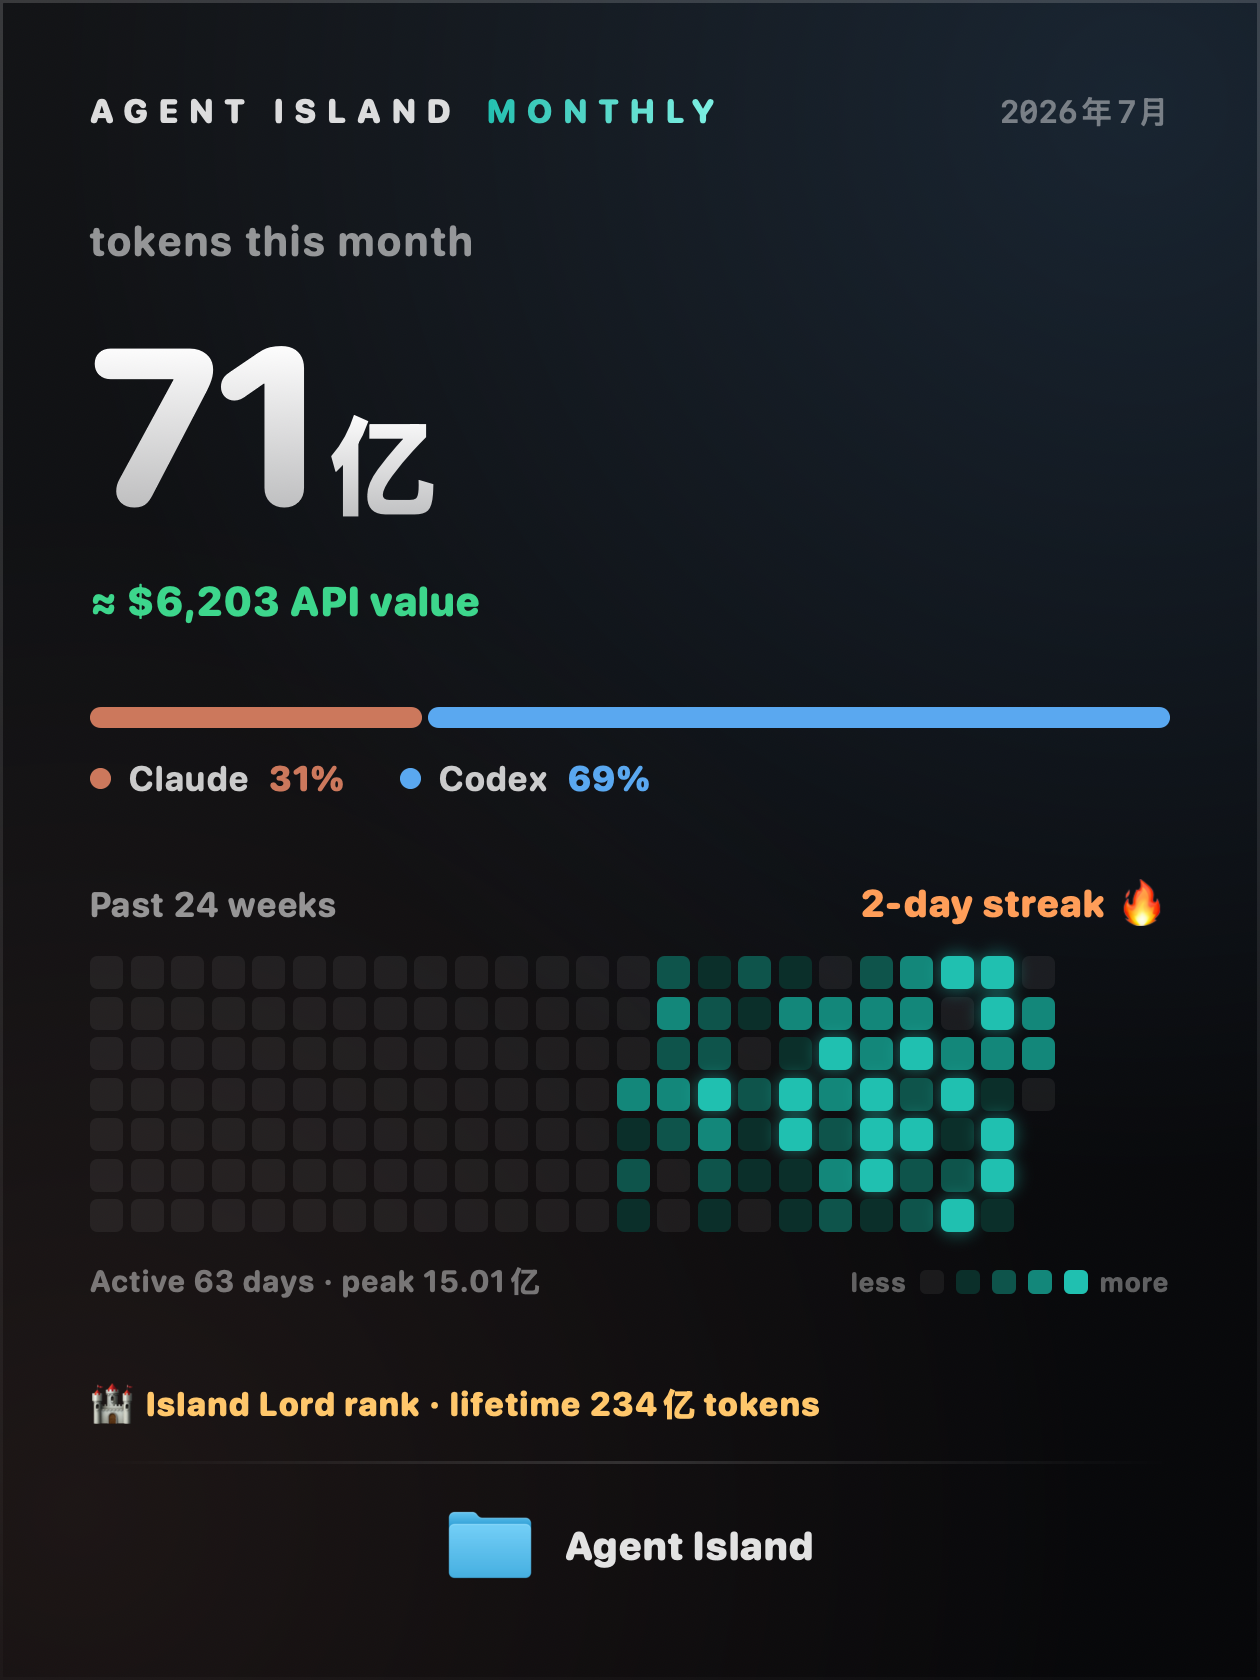
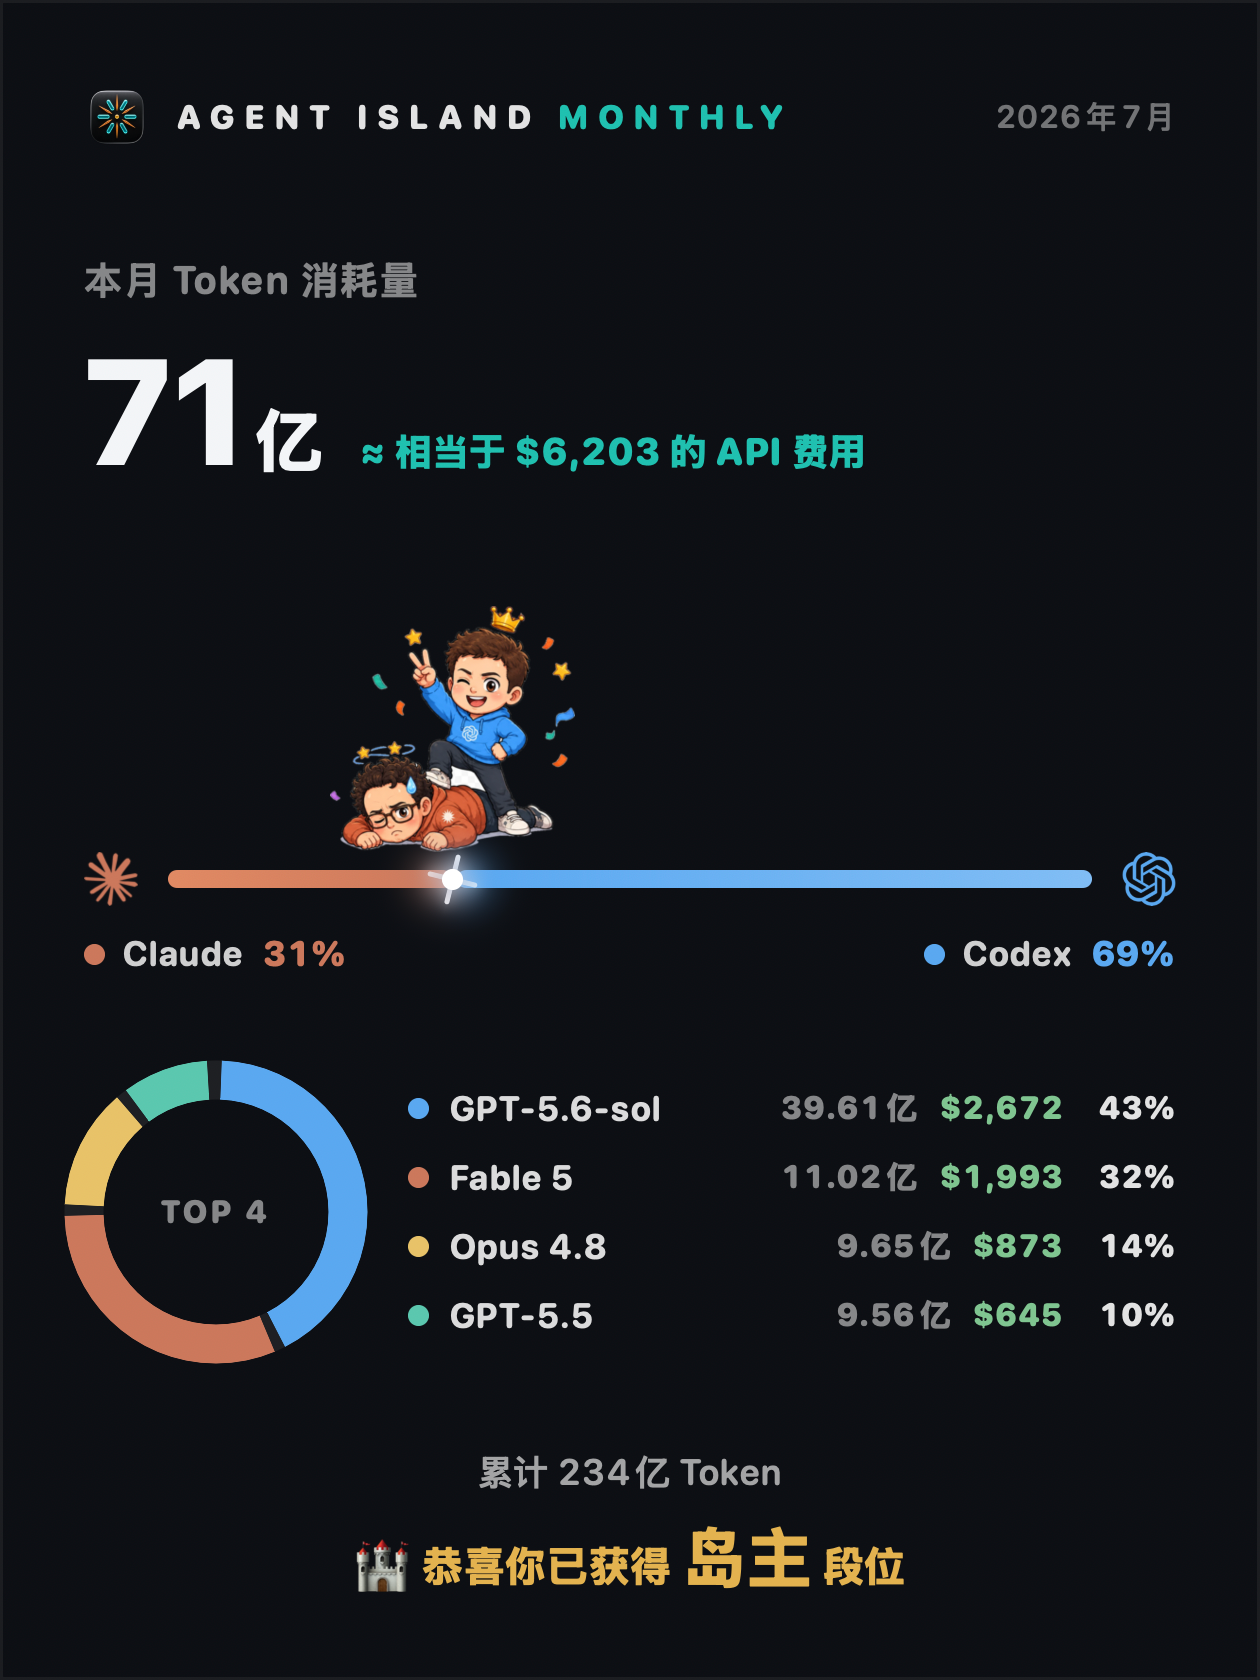
docs: README rides the v3 cards — faction duel imagery, TOP-3/TOP-5 copy, visual modes + glow colors + solo layout under Status monitoring (EN + zh)

diff --git a/README.md b/README.md
@@ -122,6 +122,8 @@ Agent Island mirrors local Claude Code, Claude Desktop, and Codex session activi
 
 <img src="Assets/agent-island-bar-alert.png" alt="Agent Island showing an attention state in the macOS top bar" width="760">
 
+The island's ambient light is yours to tune: **Vivid** (the default) keeps a soft halo and orbit sweep running in your chosen glow color — teal, cobalt, violet, or silver — while **Calm** goes fully dark and saves the amber/red tint for approaching-limit alerts. Machines with a single subscription get a dedicated split layout: the provider's mark on one flank of the island, the live number on the other.
+
 ### It's-your-turn clock
 
 When a background turn finishes, Agent Island can show an alarm window, send a system notification, and play a sound. Multiple completed turns queue instead of replacing one another, and responding clears the corresponding reminder.
@@ -141,12 +143,12 @@ Swipe through local usage and cost views for Claude and Codex. Provider usage da
 
 ### Weekly & monthly report cards
 
-Shareable cards rendered locally: total tokens with an ≈ API value line, the Claude/Codex split, 7-day bars (weekly) or a 24-week activity heatmap with your streak (monthly), a TOP model breakdown, and your island rank. Copying or sharing a card is an explicit user action; Agent Island does not publish it for you.
+Shareable cards rendered locally: total tokens with an ≈ API value line, a Claude-vs-Codex faction duel whose clash sits exactly at your usage split (the leading side wins the crown), 7-day bars with a TOP-3 model donut (weekly) or a TOP-5 donut (monthly), and your island rank as the closing line. Copying or sharing a card is an explicit user action; Agent Island does not publish it for you.
 
 <table>
   <tr>
-    <td align="center"><img src="Assets/report-weekly-en.webp" alt="Weekly report card with demo data: tokens, API value, provider split, model donut, island rank" width="420"></td>
-    <td align="center"><img src="Assets/report-monthly-en.webp" alt="Monthly report card with demo data: 24-week heatmap, streak, island rank" width="420"></td>
+    <td align="center"><img src="Assets/report-weekly-en.webp" alt="Weekly report card with demo data: tokens, API value, faction duel, model donut, island rank" width="420"></td>
+    <td align="center"><img src="Assets/report-monthly-en.webp" alt="Monthly report card with demo data: tokens, faction duel, TOP-5 model donut, island rank" width="420"></td>
   </tr>
 </table>
 

diff --git a/README.zh-CN.md b/README.zh-CN.md
@@ -122,6 +122,8 @@ Agent Island 把本机 Claude Code、Claude Desktop 和 Codex 的会话活动显
 
 <img src="Assets/agent-island-bar-alert.png" alt="macOS 顶部条中的异常注意状态" width="760">
 
+岛的环境光由你决定：**流光**（默认）让光晕与环绕流光以你选的颜色常亮——青、钴蓝、紫、银白；**清爽**则完全熄灯，只保留接近上限时的琥珀/红色警示。单订阅的机器有专属分边布局：岛的一端是所属 logo，另一端是实时数字。
+
 ### 轮到你闹钟
 
 后台一轮任务结束后，Agent Island 可以显示闹钟窗口、发送系统通知并播放提示音。多个已完成任务会排队，而不是相互覆盖；回复对应会话后，相应提醒会消失。
@@ -141,12 +143,12 @@ Agent Island 把本机 Claude Code、Claude Desktop 和 Codex 的会话活动显
 
 ### 周报与月报卡片
 
-在本机渲染的可分享卡片：本期 Token 总量与 ≈ API 费用换算、Claude/Codex 占比、7 天柱状图（周报）或 24 周活跃热力图与连续天数（月报）、TOP 模型环形分布、岛民段位。复制或分享都由用户明确触发，Agent Island 不会代替你发布。
+在本机渲染的可分享卡片：本期 Token 总量与 ≈ API 费用换算、Claude 对 Codex 的阵营对决（火花停在真实占比分割点，占比高的一方戴上王冠）、7 天柱状图 + TOP 3 模型环形图（周报）或 TOP 5 环形图（月报），底部以岛民段位收尾。复制或分享都由用户明确触发，Agent Island 不会代替你发布。
 
 <table>
   <tr>
-    <td align="center"><img src="Assets/report-weekly-zh.webp" alt="周报卡片（演示数据）：Token 总量、API 费用换算、模型环形图、岛民段位" width="420"></td>
-    <td align="center"><img src="Assets/report-monthly-zh.webp" alt="月报卡片（演示数据）：24 周热力图、连续天数、岛民段位" width="420"></td>
+    <td align="center"><img src="Assets/report-weekly-zh.webp" alt="周报卡片（演示数据）：Token 总量、API 费用换算、阵营对决、模型环形图、岛民段位" width="420"></td>
+    <td align="center"><img src="Assets/report-monthly-zh.webp" alt="月报卡片（演示数据）：Token 总量、阵营对决、TOP 5 模型环形图、岛民段位" width="420"></td>
   </tr>
 </table>
 
